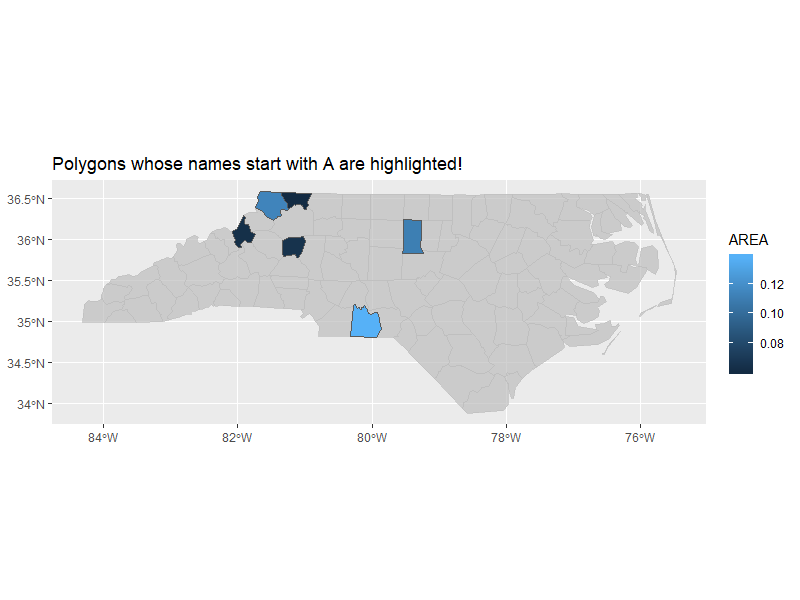
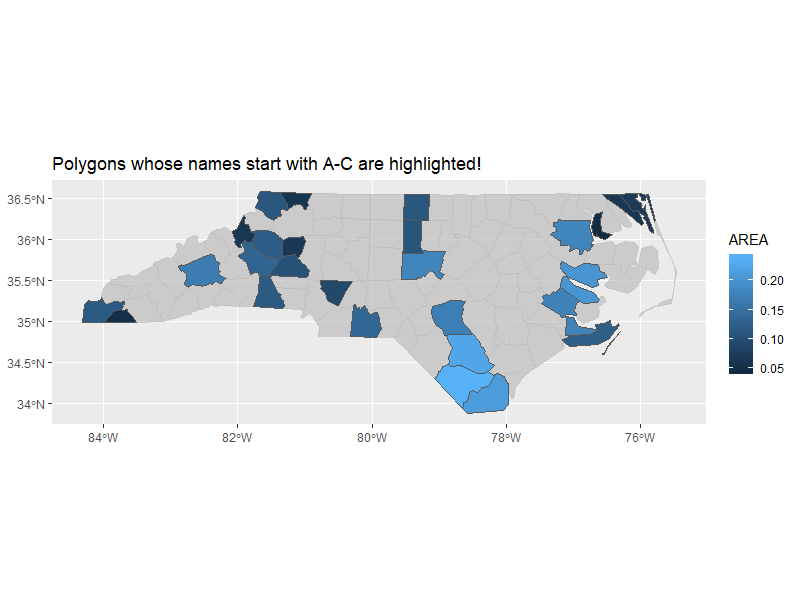
Highlight some more states

diff --git a/content/post/2018-06-16-re-intro-to-gghighlight.md b/content/post/2018-06-16-re-intro-to-gghighlight.md
@@ -243,8 +243,8 @@ nc <- sf::st_read(system.file("shape/nc.shp", package = "sf"), quiet = TRUE)
 
 ggplot(nc) +
   geom_sf(aes(fill = AREA)) +
-  gghighlight(grepl("^A", NAME)) +
-  ggtitle("Polygons whose names start with A are highlighted!")
+  gghighlight(grepl("^[A-C]", NAME)) +
+  ggtitle("Polygons whose names start with A-C are highlighted!")
 ```
 
 ![plot of chunk sf](/post/2018-06-16-re-intro-to-gghighlight_files/figure-html/sf-1.png)
